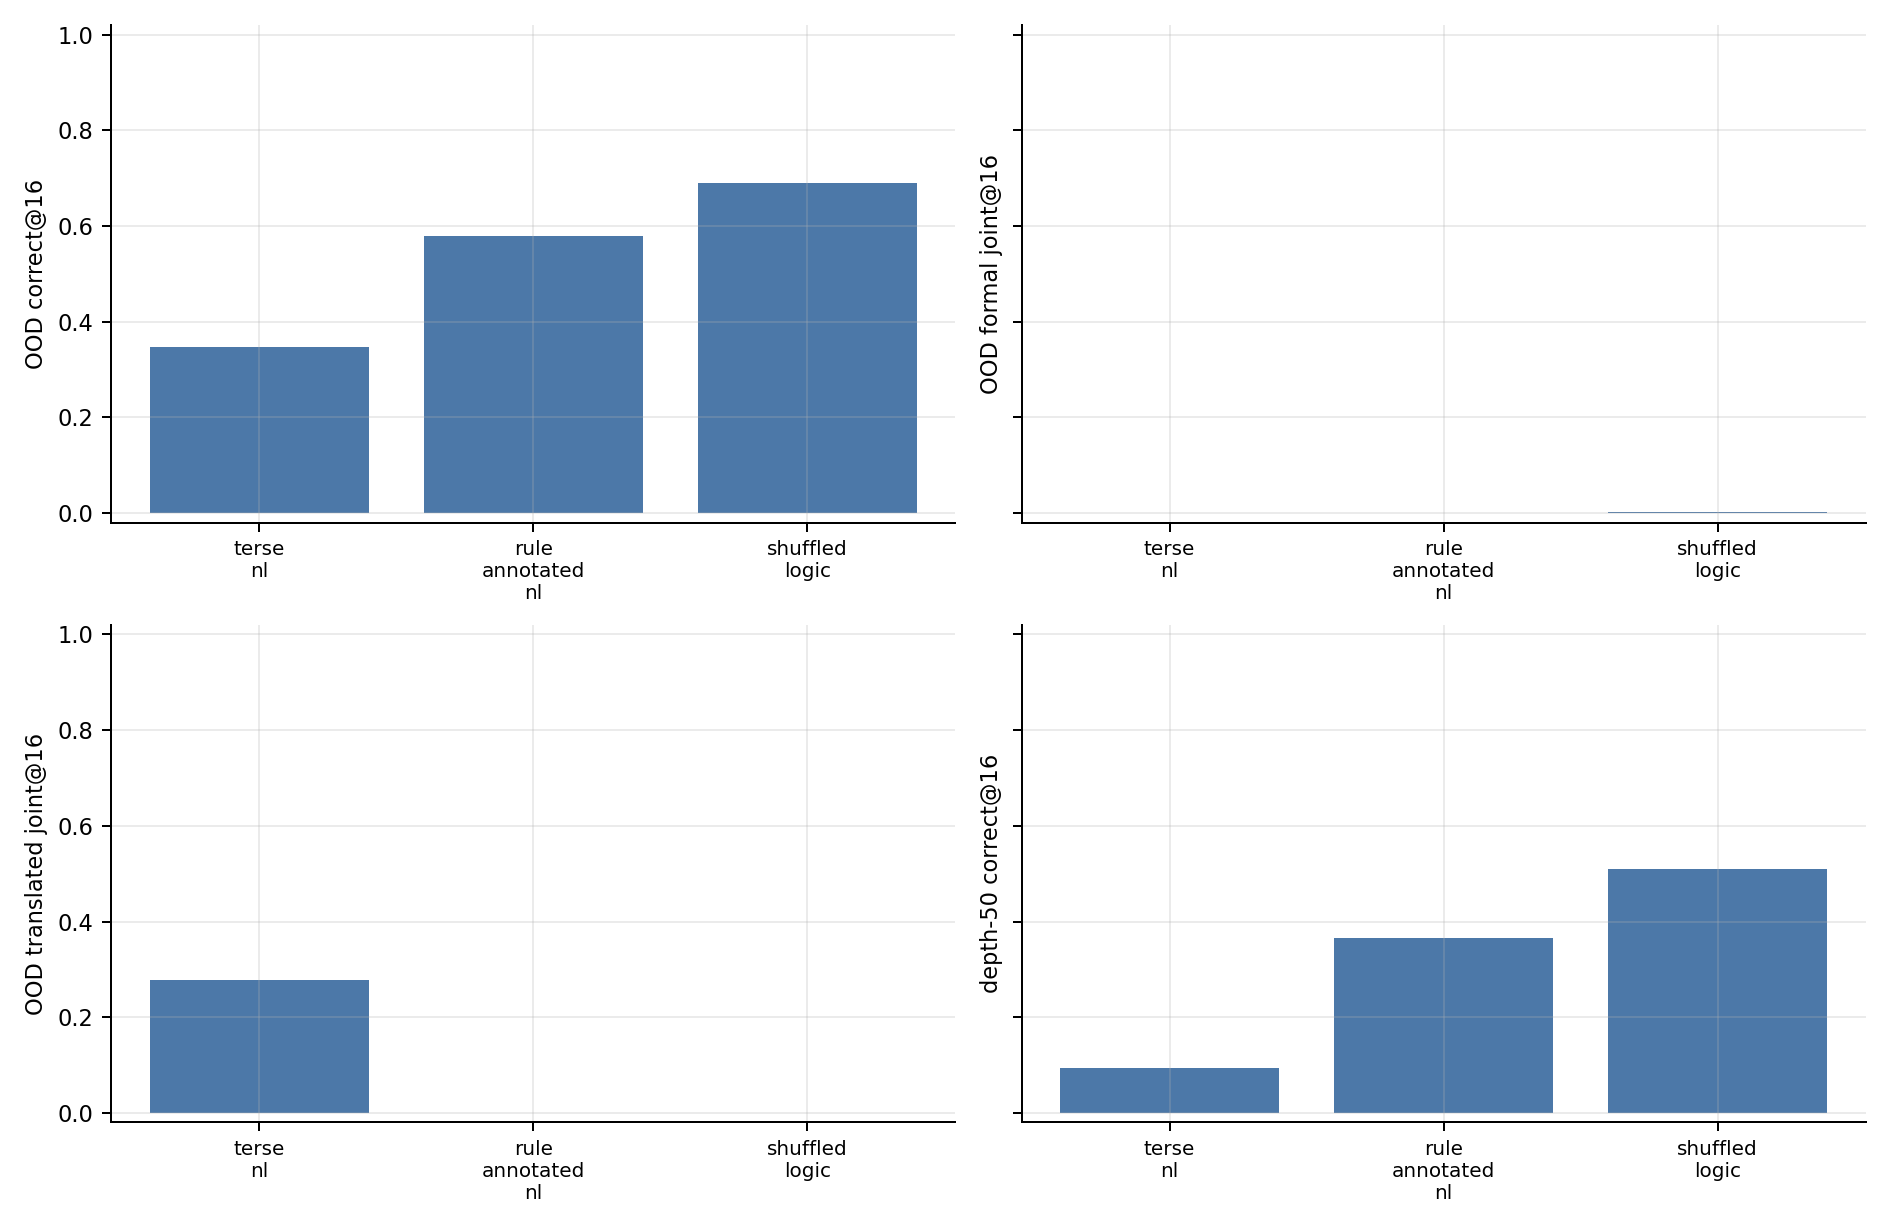
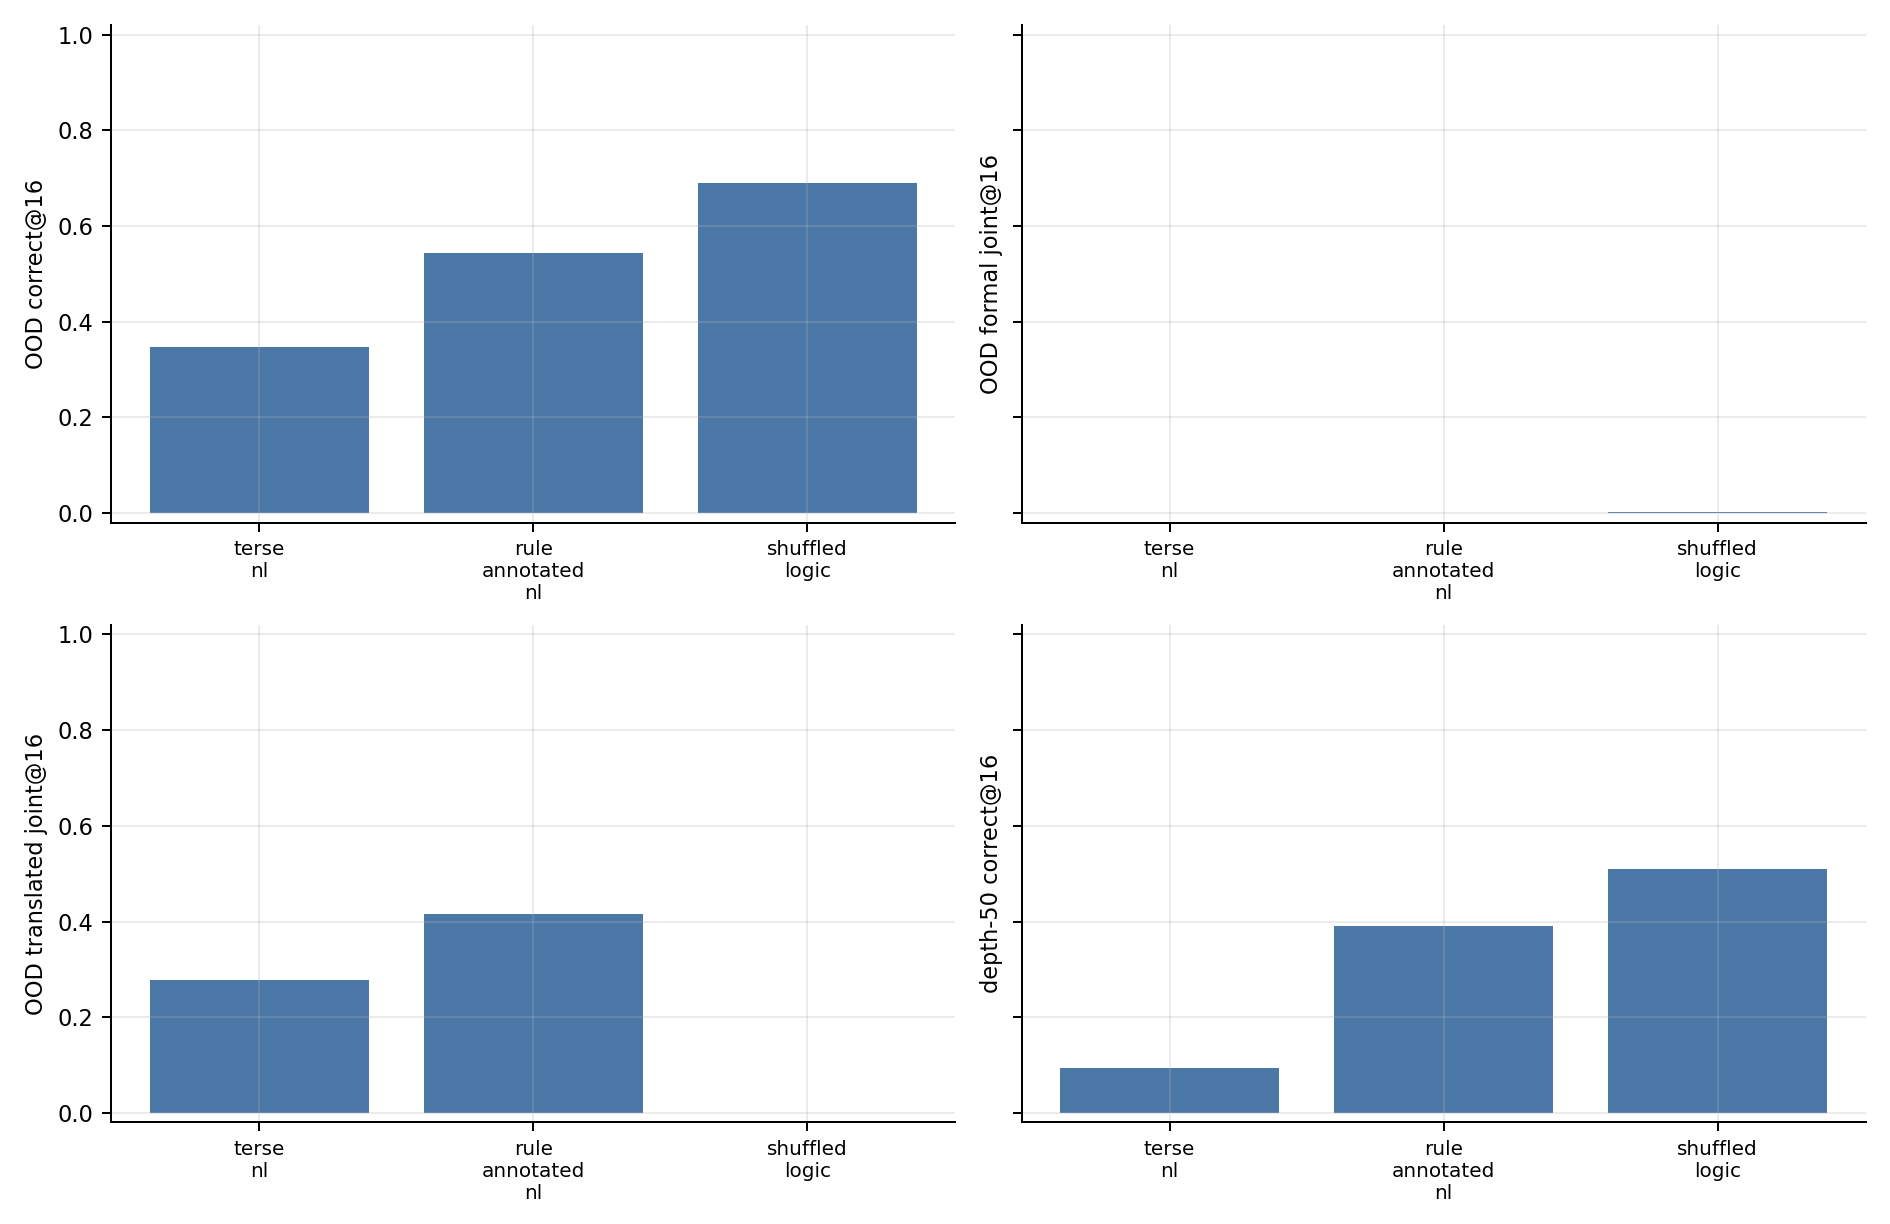
update logic cot report artifacts

Changed region(s): [[0.2185, 0.7451, 0.3434, 0.9314], [0.6868, 0.7451, 0.8429, 0.7761], [0.2185, 0.1863, 0.3434, 0.2173]]

diff --git a/main.tex b/main.tex
@@ -18,7 +18,7 @@
 \item Architecture ablations show that the phenomenon is not OLMo-only: Qwen and Gemma runs also show strong formal-trace transfer, with model-specific variation in joint validity.
 \item Shortcut-rich training hurts NL more clearly than logic in the completed 0.3/0.5/0.8 shortcut-rate runs, supporting the hypothesis that NL relies more on brittle shortcut associations. The shortcut-kind controls for position and initial-marker shortcuts are still training.
 \item Conditioned dual-modality at 10k underperforms the best single-modality baselines, especially for conditioned logic at larger train ranges. The 50k continuation is running to test whether this is undertraining.
-\item Trace controls are only partially evaluated. The existing rule-annotated NL translated-validity numbers are stale because the older NL-to-FOL translator did not strip \texttt{[rule: ...]} suffixes; a repair eval is running after adding annotation/pseudocode unwrapping. Do not use the old zero translated-joint value as evidence.
+\item Trace controls are only partially evaluated. The older rule-annotated NL seed 3409 translated-validity artifact is stale because the prior NL-to-FOL translator did not strip \texttt{[rule: ...]} suffixes. The generated trace-control tables filter that stale seed until the repair eval overwrites it.
 \end{itemize}
 
 \section{Metric note for OOD benchmarks}
@@ -567,11 +567,11 @@ This table is artifact-based at report-generation time: it counts completed SFT 
 experiment & scope & SFT done & SFT expected & eval done & eval expected & status \\
 \midrule
 iGSM & paired-family full suite & 30 & 30 & 0 & 30 & eval pending \\
-maze & paired-family full suite & 18 & 30 & 0 & 30 & eval pending \\
+maze & paired-family full suite & 24 & 30 & 0 & 30 & eval pending \\
 attribute constraints & paired-family full suite & 0 & 30 & 0 & 30 & eval pending \\
 trace controls & six train-1-to-25 perturbations &  &  & 9 & 18 & partial eval \\
 shortcut-rate & rates 0.3/0.5/0.8, logic and NL &  &  & 18 & 18 & complete \\
-hybrid order & formal-then-NL and NL-then-formal full train-depth suite &  &  & 11 & 30 & partial eval \\
+hybrid order & formal-then-NL and NL-then-formal full train-depth suite &  &  & 13 & 30 & partial eval \\
 shortcut-kind & position and initial-marker shortcuts &  &  & 0 & 24 & not started \\
 conditioned dual 10k & conditioned formal/NL dual modality &  &  & 30 & 30 & complete \\
 conditioned dual 50k & longer conditioned formal/NL dual modality &  &  & 0 & 30 & not started \\
@@ -675,8 +675,7 @@ No rows available.
 \end{table}
 
 \subsection{Trace controls}
-The trace-control ablation trains train-1-to-25 models with six altered trace styles, always over three seeds and evaluated on the same 1-to-50 sparse protocol. The six controls are: \texttt{terse\_nl} (shorter natural-language reasoning), \texttt{rule\_annotated\_nl} (NL with explicit rule names), \texttt{pseudocode} (algorithm-like trace), \texttt{shuffled\_logic} (formal lines shuffled as a negative control), \texttt{invalid\_logic} (formally invalid proof trace negative control), and \texttt{shuffled\_nl} (NL trace order shuffled). Manual inspection found that the completed \texttt{rule\_annotated\_nl} translated-validity metrics were an evaluator artifact: lines such as \texttt{a is teal. [rule: R]} were not stripped before controlled NL-to-FOL parsing. The translator now unwraps rule annotations and pseudocode \texttt{derive "..."}
-lines, and repair eval \texttt{3680004\_[3-8]} is running/queued to overwrite \texttt{rule\_annotated\_nl} and rerun \texttt{pseudocode}.
+The trace-control ablation trains train-1-to-25 models with six altered trace styles, always over three seeds and evaluated on the same 1-to-50 sparse protocol. The six controls are: \texttt{terse\_nl} (shorter natural-language reasoning), \texttt{rule\_annotated\_nl} (NL with explicit rule names), \texttt{pseudocode} (algorithm-like trace), \texttt{shuffled\_logic} (formal lines shuffled as a negative control), \texttt{invalid\_logic} (formally invalid proof trace negative control), and \texttt{shuffled\_nl} (NL trace order shuffled). Manual inspection found that the completed \texttt{rule\_annotated\_nl} translated-validity metrics were an evaluator artifact: lines such as \texttt{a is teal. [rule: R]} were not stripped before controlled NL-to-FOL parsing. The translator now unwraps rule annotations and pseudocode \texttt{derive "..."}, and the stale pre-fix seed 3409 rule-annotated artifact is filtered until its repair output is regenerated. Current replacement rows \texttt{3682460\_[5-8]} and \texttt{3682459\_[12,14-17]} are running/queued to overwrite the stale rule-annotated seed and finish the remaining trace-control eval rows.
 
 \begin{table}[H]
 \centering
@@ -685,7 +684,7 @@ lines, and repair eval \texttt{3680004\_[3-8]} is running/queued to overwrite \t
 \toprule
 trace control & n & OOD c@16 & OOD formal joint & OOD translated joint & d50 c@16 & d50 formal joint & d50 translated joint \\
 \midrule
-rule\_annotated\_nl & 3 & 0.579 & 0.000 & 0.000 & 0.365 & 0.000 & 0.000 \\
+rule\_annotated\_nl & 2 & 0.544 & 0.000 & 0.416 & 0.391 & 0.000 & 0.094 \\
 shuffled\_logic & 3 & 0.690 & 0.002 & 0.000 & 0.510 & 0.000 & 0.000 \\
 terse\_nl & 3 & 0.348 & 0.000 & 0.277 & 0.094 & 0.000 & 0.010 \\
 \bottomrule
@@ -700,7 +699,7 @@ terse\_nl & 3 & 0.348 & 0.000 & 0.277 & 0.094 & 0.000 & 0.010 \\
 
 
 \subsection{Hybrid order}
-The hybrid-order ablation trains a single prompt containing both trace substrates and one answer at the end. \texttt{think\_formal} means NL first, then formal logic; \texttt{formal\_think} means formal logic first, then NL. The full suite is train-1-to-5/10/15/20/25 over three seeds and eval 1-to-50. Current completed rows are all \texttt{think\_formal} for train-1-to-5/10/15 and two seeds for train-1-to-20; \texttt{formal\_think} is still pending.
+The hybrid-order ablation trains a single prompt containing both trace substrates and one answer at the end. \texttt{think\_formal} means NL first, then formal logic; \texttt{formal\_think} means formal logic first, then NL. The full suite is train-1-to-5/10/15/20/25 over three seeds and eval 1-to-50. Current completed rows cover all \texttt{think\_formal} seeds through train-1-to-20; train-1-to-25 and \texttt{formal\_think} are still incomplete.
 
 \begin{table}[H]
 \centering
@@ -712,7 +711,8 @@ mode & train max & n & OOD c@16 & OOD formal joint & OOD translated joint & d50 
 think\_formal & 5 & 3 & 0.480 & 0.022 & 0.297 & 0.219 & 0.000 & 0.000 \\
 think\_formal & 10 & 3 & 0.490 & 0.249 & 0.296 & 0.354 & 0.000 & 0.000 \\
 think\_formal & 15 & 3 & 0.353 & 0.111 & 0.111 & 0.312 & 0.000 & 0.000 \\
-think\_formal & 20 & 2 & 0.419 & 0.016 & 0.078 & 0.594 & 0.000 & 0.000 \\
+think\_formal & 20 & 3 & 0.434 & 0.028 & 0.148 & 0.469 & 0.000 & 0.000 \\
+think\_formal & 25 & 1 & 0.625 & 0.244 & 0.469 & 0.406 & 0.000 & 0.125 \\
 \bottomrule
 \end{tabular}
 \caption{Hybrid-order partial summary. Treat train-1-to-20 as partial until the third seed finishes; train-1-to-25 and formal-then-NL are not yet evaluated.}